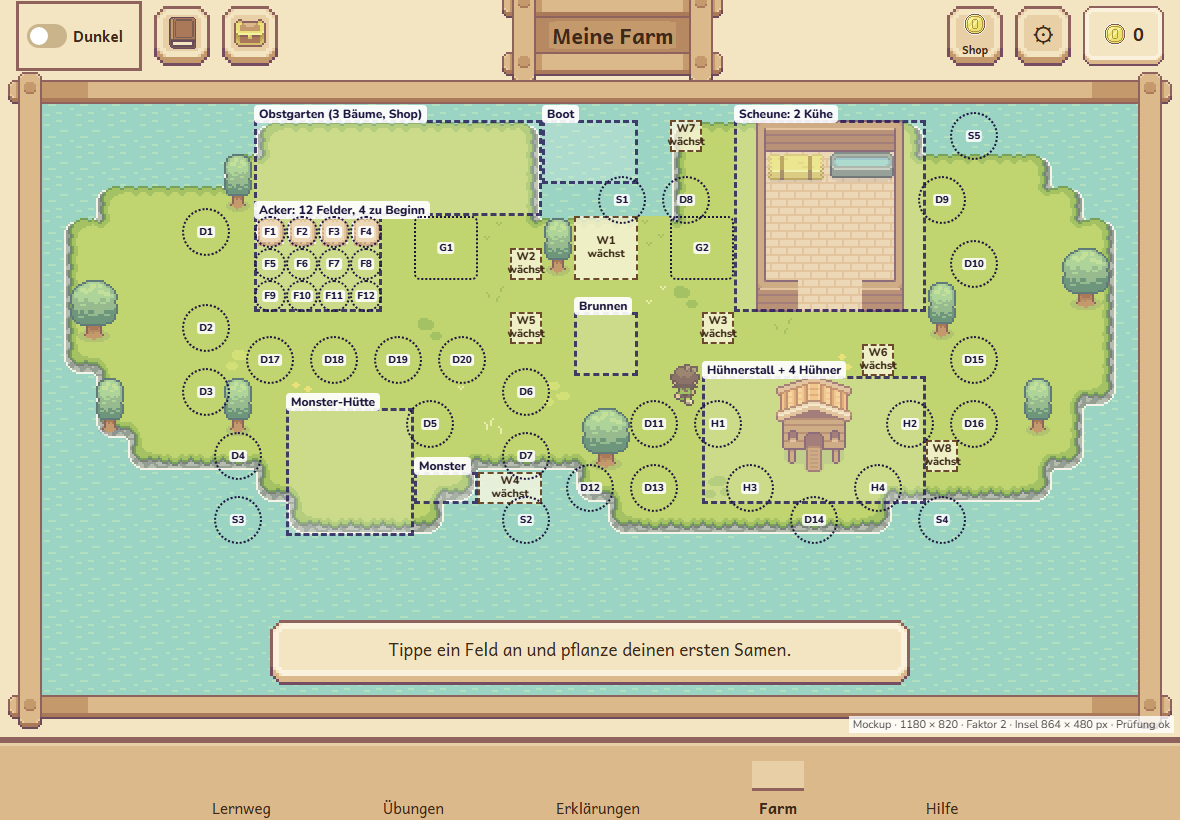
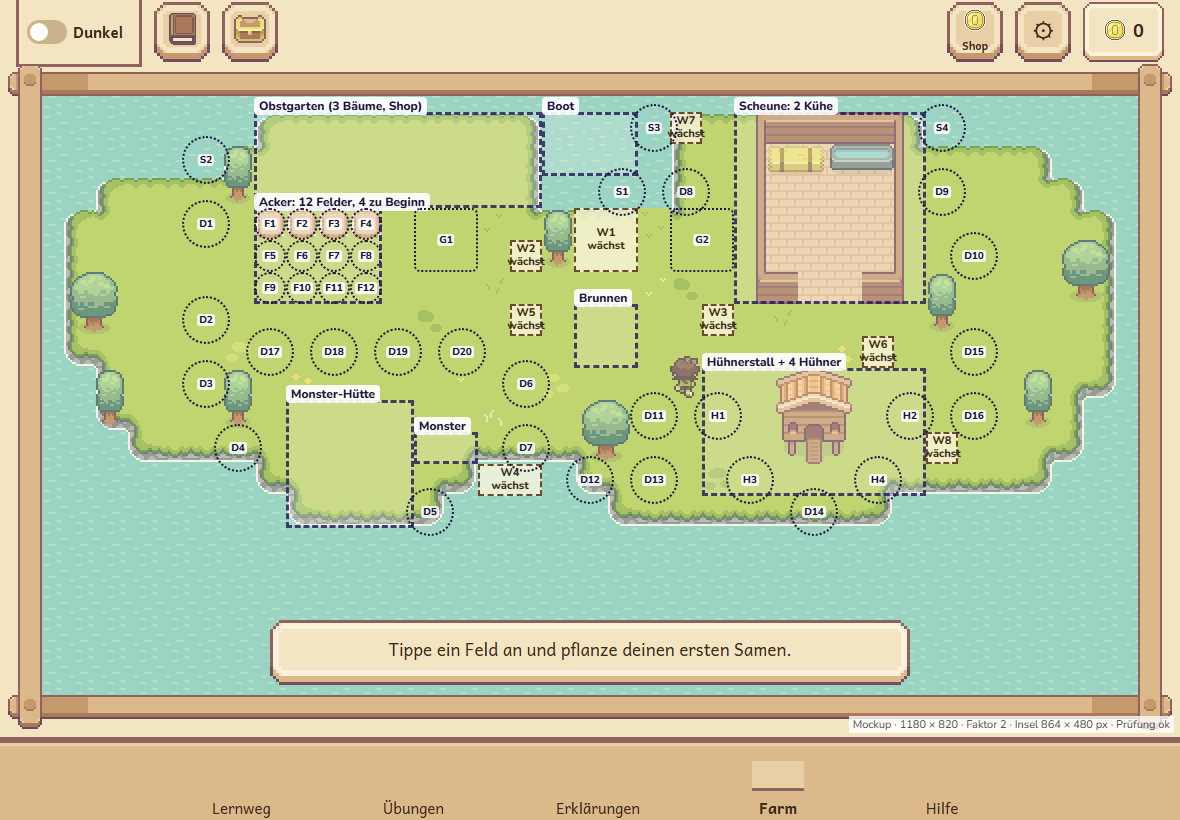
Farm: Layout leer, Monster nie im Wasser, ohne Überschrift, Wasser-Deko nur oben

Changed region(s): [[0.0, 0.0, 1.0, 0.6707]]

diff --git a/docs/farm/layout-leer.html b/docs/farm/layout-leer.html
@@ -10,7 +10,7 @@
 <link rel="stylesheet" href="../../src/design/tokens.css">
 <link rel="stylesheet" href="../../src/design/bausteine.css">
 <style>
-  :root { --kopf: 72px; --menue: 83px; --rand: 8px; }
+  :root { --kopf: 64px; --menue: 83px; --rand: 8px; }
   html, body { margin: 0; height: 100%; overflow: hidden; }
   body { position: relative; }
   body { background: var(--color-papier, #f6ecd2); }
@@ -64,7 +64,7 @@
   <span class="schalter"><i></i> Dunkel</span>
   <button class="knopf rundknopf" aria-label="Sammelalbum"><img src="../../src/grafik/buch_symbol.png" width="27" height="32" alt=""></button>
   <button class="knopf rundknopf" aria-label="Vorrat"><img src="../../src/grafik/truhe.png" width="32" height="28" alt=""></button>
-  <div class="mitte"><div class="pixel-schild"><h1>Meine Farm</h1></div></div>
+  <div class="mitte"></div><!-- Jazz 2026-11-17: Überschrift „Meine Farm“ entfällt auf der Farm -->
   <button class="knopf rundknopf" aria-label="Shop"><img src="../../src/grafik/muenze.png" width="24" height="24" alt="">Shop</button>
   <button class="knopf rundknopf" aria-label="Farm einrichten" style="font-size:26px">⚙</button>
   <span class="muenzen"><img src="../../src/grafik/muenze.png" width="24" height="24" alt="">0</span>
@@ -126,7 +126,8 @@ const KUEHE = [{ x: 19, y: 3 }, { x: 21, y: 3 }] // je 2 × 2, höchstens 2 (Jaz
 const STALL = { x: 19, y: 9 } // 3 × 3
 const HUEHNER = [{ x: 17, y: 10 }, { x: 23, y: 10 }, { x: 18, y: 12 }, { x: 22, y: 12 }]
 const HUETTE = { x: 4, y: 10 } // Bild 4 × 4
-const MONSTER = { x: 8, y: 12 }
+// Jazz 2026-11-17: Monster läuft nie ins Wasser. Laufweg 2 Kacheln vor der Hütte; links, rechts und darunter ist Gras (Prüfung unten)
+const MONSTER = { x: 8, y: 11 }
 const BRUNNEN = { x: 13, y: 7 } // 2 × 2
 const BOOT = { x: 12, y: 1 } // 3 × 2 im Wasser
 const FIGUR = { x: 16, y: 8 } // Füße auf Zeile 9
@@ -136,10 +137,11 @@ const WACHSEND = [ // Teilaufgabe 4 legt fest, was hier wächst; hier nur Platz 
   { x: 16, y: 1, b: 1, h: 1, n: 'W7' }, { x: 24, y: 11, b: 1, h: 1, n: 'W8' },
 ]
 // Deko-Plätze in drei Größen: klein 1 × 1 (D), groß 2 × 2 (G), im Wasser 1 × 1 (S)
-const DEKO = [[1, 4], [1, 7], [1, 9], [2, 11], [8, 10], [11, 9], [11, 11], [16, 3], [24, 3], [25, 5],
+const DEKO = [[1, 4], [1, 7], [1, 9], [2, 11], [8, 13], [11, 9], [11, 11], [16, 3], [24, 3], [25, 5],
   [15, 10], [13, 12], [15, 12], [20, 13], [25, 8], [25, 10], [3, 8], [5, 8], [7, 8], [9, 8]].map(([x, y]) => ({ x, y }))
 const DEKO_GROSS = [{ x: 8, y: 4 }, { x: 16, y: 4 }]
-const DEKO_WASSER = [[14, 3], [11, 13], [2, 13], [24, 13], [25, 1]].map(([x, y]) => ({ x, y }))
+// Wasser-Plätze nur oben (Jazz: unten lag S2 im Meldungsfeld)
+const DEKO_WASSER = [[14, 3], [1, 2], [15, 1], [24, 1]].map(([x, y]) => ({ x, y }))
 const BAEUME_FEST = [{ g: 'baum', x: 13, y: 10, b: 2, h: 2 }, { g: 'baum_klein', x: 24, y: 6, b: 1, h: 2 }, { g: 'baum_klein', x: 2, y: 2, b: 1, h: 2 },
   { g: 'baum_klein', x: 12, y: 4, b: 1, h: 2 }, { g: 'baum_klein', x: 2, y: 9, b: 1, h: 2 },
   // auf den Landstreifen (nur Landschaft)
@@ -171,6 +173,14 @@ DEKO.forEach((d, i) => lege('Deko ' + (i + 1), d.x, d.y))
 DEKO_GROSS.forEach((d, i) => lege('Deko groß ' + (i + 1), d.x, d.y, 2, 2))
 DEKO_WASSER.forEach((d, i) => { lege('Deko Wasser ' + (i + 1), d.x, d.y, 1, 1, true); if (gras(d.x, d.y)) fehler.push(`Wasser-Deko ${i + 1} liegt auf Gras`) })
 BAEUME_FEST.forEach((t) => lege(t.g, t.x, t.y, t.b, t.h))
+// Monster: Laufweg auf Gras, daneben (links/rechts) Gras oder Hütte, darunter Gras
+for (let i = MONSTER.x - 1; i <= MONSTER.x + 2; i++) {
+  const huette = i >= HUETTE.x && i < HUETTE.x + 4
+  if (!huette && !gras(i, MONSTER.y)) fehler.push(`Monster-Laufweg grenzt an Wasser bei (${i}, ${MONSTER.y})`)
+  if (i >= MONSTER.x && i <= MONSTER.x + 1 && !gras(i, MONSTER.y + 1)) fehler.push(`Unter dem Monster ist Wasser bei (${i}, ${MONSTER.y + 1})`)
+}
+// Nichts Antippbares im Wasser unter der Insel (dort liegt das Meldungsfeld)
+DEKO_WASSER.forEach((d, i) => { if (d.y >= 12) fehler.push(`Wasser-Deko ${i + 1} liegt zu weit unten`) })
 GRAS_DEKO.forEach(([x, y]) => { if (belegt.has(`${x},${y}`) || !gras(x, y)) fehler.push(`Grasdeko (${x}, ${y}) liegt schlecht`) })
 // Antippbare 1 × 1-Dinge brauchen ringsum eine freie Kachel (dann passt bei 2-fach eine Tippfläche von 48 × 48 px ohne Überlappung)
 // Ausnahme (Jazz, E3): Felder untereinander liegen dicht, ihre Tippfläche bleibt bei 2-fach 32 px
@@ -205,7 +215,7 @@ const bild = (n) => new Promise((ok) => { const i = new Image(); i.onload = () =
 let mal = 2
 async function zeichnen() {
   const fenster = document.getElementById('fenster'), buehne = document.getElementById('buehne')
-  const kopf = 72, menue = 83, rand = 8, rahmenB = 68, rahmenH = 66
+  const kopf = 64, menue = 83, rand = 8, rahmenB = 68, rahmenH = 66
   const W = q.has("b") ? +q.get("b") : document.documentElement.clientWidth, H = q.has("b") ? +q.get("h") : document.documentElement.clientHeight
   const breite = W - 2 * rand - rahmenB
   const hoehe = H - kopf - menue - rand - rahmenH

diff --git a/docs/farm/layout-leer.md b/docs/farm/layout-leer.md
@@ -2,7 +2,7 @@
 
 Stand: 2026-11-17, Branch `lehrkraftseite`. **Nur Vorschlag und Mockup, am Spiel ist nichts geändert.**
 Grundlage sind `analyse-farm.md` und die Antworten von Jazz vom 2026-11-17 (siehe `docs/umbau/STATUS.md`).
-Überarbeitet nach der Rückmeldung von Jazz zu E1 bis E5 (Abschnitt 9).
+Überarbeitet nach den Rückmeldungen von Jazz zu E1 bis E5 und E6 bis E8 (Abschnitt 9).
 
 **Mockup:** `docs/farm/layout-leer.html`.
 - Am besten über den Entwicklungs-Server öffnen: `http://localhost:5174/wortsalat/docs/farm/layout-leer.html`.
@@ -26,14 +26,15 @@ Grundlage sind `analyse-farm.md` und die Antworten von Jazz vom 2026-11-17 (sieh
    - Auf breiten iPads sieht man mehr davon, auf schmalen werden sie am Rahmen abgeschnitten.
 3. **Vergrößerung nur 2-fach oder 3-fach (ganzzahlig).**
    - Es gilt die größte ganze Zahl, bei der das ganze Gras des Kerns (25 × 13 Kacheln) ins Fenster passt.
-4. **Farm-Knöpfe in der Kopfzeile** (72 statt 116 px hoch).
-   - Links: Sammelalbum und Vorrat. Mitte: das Schild „Meine Farm“. Rechts: Shop, Farm einrichten und Münzen.
+4. **Farm-Knöpfe in der Kopfzeile** (64 statt 116 px hoch).
+   - Links: Sammelalbum und Vorrat. Rechts: Shop, Farm einrichten und Münzen.
+   - **Die Überschrift „Meine Farm“ entfällt auf der Farm** (Jazz). Das spart Platz.
    - **Der Shop-Knopf ersetzt den Menüpunkt „Shop“ unten.** Das Menü hat dann 5 Punkte: Lernweg, Übungen, Erklärungen, Farm, Hilfe.
    - **Das Buch im Sammelalbum-Knopf wird kleiner**, etwa so groß wie die Truhe (siehe Abschnitt 8).
 5. **Die Meldung** ist ein Papier-Banner unten im Meer. Dort stehen aktuelle Hinweise zur Farm. Einstein kommt nicht auf die Farm.
 6. **Felder liegen dicht wie heute (4 × 3).**
    - Das hat sich in Tests bewährt.
-   - Der gewonnene Platz geht an die Deko: **27 Deko-Plätze statt 18**, in drei Größen.
+   - Der gewonnene Platz geht an die Deko: **26 Deko-Plätze statt 18**, in drei Größen.
 7. **Tippflächen:**
    - Hühner und Deko bekommen mindestens 48 × 48 px.
    - Felder bleiben bei 2-fach 32 px. Das ist eine bewusste Ausnahme (Jazz, E3).
@@ -43,17 +44,17 @@ Grundlage sind `analyse-farm.md` und die Antworten von Jazz vom 2026-11-17 (sieh
 
 | Fenster (Querformat) | Faktor | 1 Kachel | Insel-Kern | Innenfläche Spielfenster | sichtbarer Landstreifen | heute (zum Vergleich) |
 |---|---|---|---|---|---|---|
-| 1024 × 768 | 2 | 32 px | 864 × 480 | 940 × 539 | je ~38 px (gut 1 Kachel) | Farm 672 px breit, Seite scrollt 16 px |
-| 1180 × 820 | 2 | 32 px | 864 × 480 | 1096 × 591 | je ~116 px (gut 3½ Kacheln) | Farm 672 px breit, 43 % leer |
-| 1366 × 1024 | 3 | 48 px | 1296 × 720 | 1282 × 795 | keiner (der Wasserrand des Kerns wird je 7 px abgeschnitten) | Farm 1008 px breit |
+| 1024 × 768 | 2 | 32 px | 864 × 480 | 940 × 547 | je ~38 px (gut 1 Kachel) | Farm 672 px breit, Seite scrollt 16 px |
+| 1180 × 820 | 2 | 32 px | 864 × 480 | 1096 × 599 | je ~116 px (gut 3½ Kacheln) | Farm 672 px breit, 43 % leer |
+| 1366 × 1024 | 3 | 48 px | 1296 × 720 | 1282 × 803 | keiner (der Wasserrand des Kerns wird je 7 px abgeschnitten) | Farm 1008 px breit |
 
 So ist gerechnet:
 - **Innenfläche:** Fensterbreite minus 2 × 8 px Rand und 68 px Holzrahmen.
-- **Höhe:** Fensterhöhe minus Kopfzeile (72), Menü (83), 8 px Rand und 66 px Holzrahmen.
+- **Höhe:** Fensterhöhe minus Kopfzeile (64), Menü (83), 8 px Rand und 66 px Holzrahmen.
 - Die Insel steht oben. Darunter bleibt Meer für die Meldung.
 
 **Safari am echten iPad** zieht oben noch Adress- und Tableiste ab, geschätzt 50 bis 70 px.
-- Bei 1024 × 768 bleiben dann etwa 470 px Höhe. Das Gras braucht 416 px, es passt also.
+- Bei 1024 × 768 bleiben dann etwa 480 px Höhe. Das Gras braucht 416 px, es passt also.
 - **Nicht getestet**, weil kein iPad zur Hand war.
 - Am sichersten ist die Farm als Web-App auf dem Home-Bildschirm. Dann gibt es keine Safari-Leisten.
 
@@ -65,12 +66,12 @@ So ist gerechnet:
 | **Obstgarten** | links oben (y 1 bis 3) | 3 Obstbäume: Orange, Pfirsich, Birne | über dem Acker bzw. vor dem Stall | jetzt alle drei nebeneinander |
 | **Scheune** | rechts oben (x 18 bis 23, y 1 bis 6) | **2 Kühe** | 4 Kühe | Jazz: höchstens 2 |
 | **Hühnerstall** | rechts unten (Stall bei x 19, y 9) | **4 Hühner** rund um den Stall | 4 | je mit freier Kachel dazwischen |
-| **Monster-Hütte** | links unten (x 4 bis 7, y 10 bis 13) | Hütte und Laufweg des Monsters (x 8 bis 9, y 12) | links unten | |
+| **Monster-Hütte** | links unten (x 4 bis 7, y 10 bis 13) | Hütte und Laufweg des Monsters (x 8 bis 9, y 11) | links unten | **Das Monster läuft nie ins Wasser** (Jazz). Links und rechts vom Laufweg liegen Gras oder die Hütte, darunter Gras. Das Mockup prüft das. |
 | **Brunnen** | Mitte (x 13 bis 14, y 7 bis 8) | 1 | Mitte | |
 | **Boot** | Bucht oben Mitte (x 12 bis 14, y 1 bis 2) | 1 (im Wasser) | Bucht oben | |
 | **Deko klein** (1 × 1) | am Rand, unter dem Acker, im Hof | **20 Plätze** D1 bis D20 | 18 | Blumen, Steine, Pilze, Schilder und Ähnliches |
 | **Deko groß** (2 × 2) | neben dem Acker, vor der Scheune | **2 Plätze** G1, G2 | – | Picknick, Bank mit Tisch, Bienenstock, Kirschblütenbusch |
-| **Deko im Wasser** (1 × 1) | Buchten und Ufer | **5 Plätze** S1 bis S5 | – | Seerosen, Schilf, Steine im Wasser, Frosch |
+| **Deko im Wasser** (1 × 1) | nur oben: Bucht und Ufer | **4 Plätze** S1 bis S4 | – | Seerosen, Schilf, Steine im Wasser, Frosch |
 | **Wachsende Deko** | gut sichtbar verteilt | **8 Plätze** W1 bis W8 | – | Was dort wächst, legt Teilaufgabe 4 fest. Sie sind nicht antippbar. |
 | **Figur** | Start im Hof (x 16, y 8) | – | Mitte | |
 | **Liegendes** (Ernte, Ei, Milch, Monster-Geschenk) | Ernte auf dem Feld selbst; Ei/Milch und Geschenk an einem festen Platz neben Tier bzw. Hütte | – | „daneben“ | Geschenke **hüpfen weiter** (Jazz, E4). |
@@ -172,6 +173,9 @@ Preise und Freischaltung folgen in Teilaufgabe 5, die genaue Auswahl in Teilaufg
 | E3 | Felder mit Grasweg dazwischen | **nein:** Felder dicht wie heute, dafür mehr Deko-Plätze und mehr Deko im Shop (Abschnitt 8) |
 | E4 | Hungrige Tiere | Napf/Trog, Meldung „Deine Hühner/Kühe/Tiere sind hungrig.“, Monster ohne Ausrufezeichen, **Geschenke hüpfen weiter** |
 | E5 | Shop-Knopf auf der Farm | Der Knopf **ersetzt** den Menüpunkt Shop unten. Das Buch im Sammelalbum-Knopf wird kleiner. |
+| E6 | Monster | läuft nie ins Wasser (Laufweg vor der Hütte, ringsum Gras) |
+| E7 | Überschrift „Meine Farm“ | entfällt auf der Farm |
+| E8 | Wasser-Platz S2 lag unten im Meldungsfeld | Wasser-Plätze nur noch oben; unter der Insel liegt nichts Antippbares im Wasser (Prüfung im Mockup) |
 
 ## 10. Was später im Code zu ändern wäre (nicht jetzt)
 

diff --git a/docs/umbau/STATUS.md b/docs/umbau/STATUS.md
@@ -542,4 +542,6 @@ Sechs Teilaufgaben (1 Analyse, 2 Layout leer, 3 Layout voll, 4 Dekorationen, 5 M
   Monster ohne Ausrufezeichen, Geschenke hüpfen weiter. E5: Shop-Knopf über der Farm **ersetzt** den Menüpunkt Shop; Buch im Sammelalbum-Knopf kleiner.
   Umgesetzt im Mockup und in `layout-leer.md`: 27 Deko-Plätze (20 klein, 2 groß 2 × 2, 5 im Wasser), Liste von etwa 30 passenden Deko-Bildern aus den
   gekauften Paketen (Abschnitt 8). Selbstprüfung in allen drei Größen ok.
+- **Nachtrag Jazz (2026-11-17):** Monster läuft nie ins Wasser (Laufweg vor der Hütte, Prüfung im Mockup), Überschrift „Meine Farm“ entfällt
+  (Kopfzeile 64 px), Wasser-Deko nur oben (S2 lag im Meldungsfeld) → 26 Deko-Plätze (20 klein, 2 groß, 4 Wasser). Selbstprüfung in allen Größen ok.
 - **Nächster Schritt:** Teilaufgabe 3 (Layout voll).
